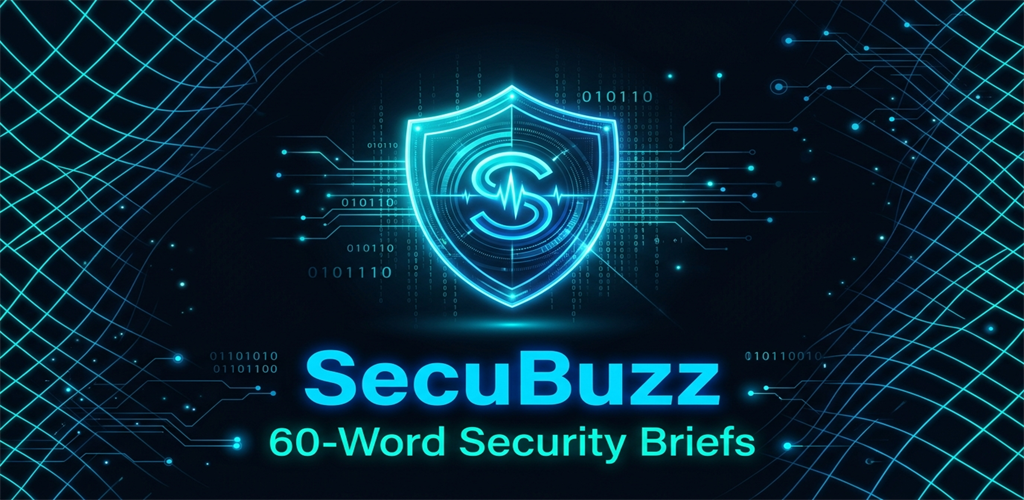
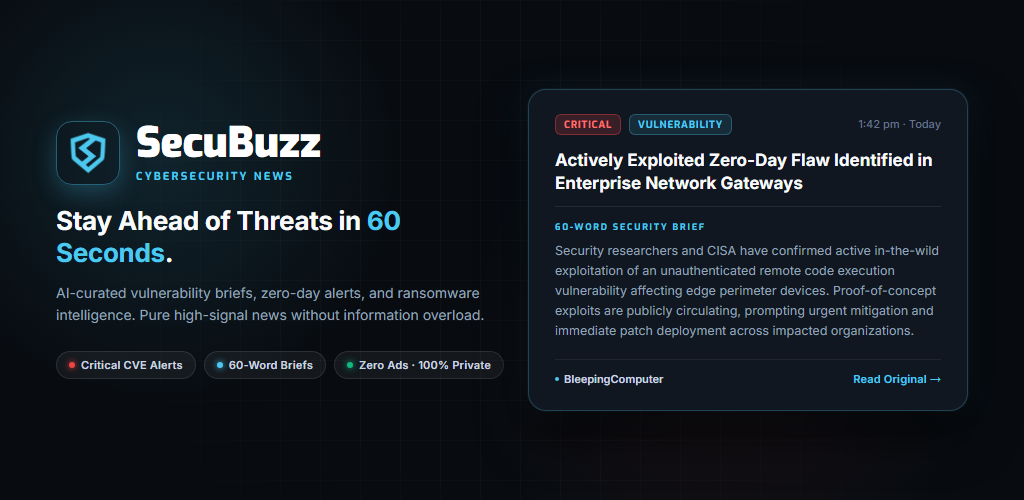
feat(store): deploy live privacy policy on Cloudflare Worker and regenerate human-crafted feature graphic

diff --git a/worker/src/privacyHtml.ts b/worker/src/privacyHtml.ts
@@ -1,0 +1,326 @@
+export const PRIVACY_POLICY_HTML = `<!DOCTYPE html>
+<html lang="en">
+<head>
+  <meta charset="UTF-8" />
+  <meta name="viewport" content="width=device-width, initial-scale=1.0" />
+  <title>SecuBuzz · Privacy Policy</title>
+  <link rel="preconnect" href="https://fonts.googleapis.com" />
+  <link rel="preconnect" href="https://fonts.gstatic.com" crossorigin />
+  <link href="https://fonts.googleapis.com/css2?family=Exo:wght@600;700;800&family=Inter:wght@400;500;600&display=swap" rel="stylesheet" />
+  <style>
+    :root {
+      --bg: #0B0F14;
+      --card-bg: #121820;
+      --border: #1E293B;
+      --cyan: #4CC9F0;
+      --cyan-glow: rgba(76, 201, 240, 0.15);
+      --text-primary: #F8FAFC;
+      --text-secondary: #94A3B8;
+      --text-muted: #64748B;
+    }
+
+    * {
+      box-sizing: border-box;
+      margin: 0;
+      padding: 0;
+    }
+
+    body {
+      background-color: var(--bg);
+      color: var(--text-primary);
+      font-family: 'Inter', -apple-system, BlinkMacSystemFont, "Segoe UI", Roboto, sans-serif;
+      line-height: 1.7;
+      padding: 40px 20px 80px;
+    }
+
+    .container {
+      max-width: 820px;
+      margin: 0 auto;
+    }
+
+    header {
+      text-align: center;
+      margin-bottom: 48px;
+      padding-bottom: 32px;
+      border-bottom: 1px solid var(--border);
+    }
+
+    .app-title {
+      font-family: 'Exo', sans-serif;
+      font-weight: 800;
+      font-size: 2.2rem;
+      letter-spacing: -0.5px;
+      color: var(--text-primary);
+    }
+
+    .tagline {
+      color: var(--cyan);
+      font-family: 'Exo', sans-serif;
+      font-weight: 600;
+      font-size: 0.85rem;
+      letter-spacing: 2px;
+      text-transform: uppercase;
+      margin-top: 4px;
+    }
+
+    .updated-date {
+      color: var(--text-muted);
+      font-size: 0.9rem;
+      margin-top: 14px;
+    }
+
+    .intro-card {
+      background: var(--card-bg);
+      border: 1px solid var(--border);
+      border-left: 4px solid var(--cyan);
+      border-radius: 12px;
+      padding: 24px;
+      margin-bottom: 36px;
+    }
+
+    .intro-card p {
+      color: var(--text-secondary);
+      font-size: 1.05rem;
+    }
+
+    .section {
+      background: var(--card-bg);
+      border: 1px solid var(--border);
+      border-radius: 12px;
+      padding: 28px;
+      margin-bottom: 24px;
+    }
+
+    .section h2 {
+      font-family: 'Exo', sans-serif;
+      font-weight: 700;
+      font-size: 1.3rem;
+      color: var(--text-primary);
+      margin-bottom: 14px;
+      display: flex;
+      align-items: center;
+      gap: 10px;
+    }
+
+    .section h2::before {
+      content: "";
+      display: inline-block;
+      width: 4px;
+      height: 18px;
+      background: var(--cyan);
+      border-radius: 2px;
+    }
+
+    .section p {
+      color: var(--text-secondary);
+      font-size: 0.98rem;
+      margin-bottom: 14px;
+    }
+
+    .section p:last-child {
+      margin-bottom: 0;
+    }
+
+    .section ul {
+      margin: 12px 0 16px 24px;
+      color: var(--text-secondary);
+    }
+
+    .section li {
+      margin-bottom: 8px;
+    }
+
+    .highlight-box {
+      background: rgba(76, 201, 240, 0.06);
+      border: 1px solid rgba(76, 201, 240, 0.2);
+      border-radius: 8px;
+      padding: 16px 20px;
+      margin: 14px 0;
+    }
+
+    .highlight-box p {
+      color: #E2E8F0;
+      font-size: 0.95rem;
+    }
+
+    a {
+      color: var(--cyan);
+      text-decoration: none;
+      transition: opacity 0.2s;
+    }
+
+    a:hover {
+      text-decoration: underline;
+      opacity: 0.85;
+    }
+
+    footer {
+      text-align: center;
+      margin-top: 60px;
+      padding-top: 32px;
+      border-top: 1px solid var(--border);
+      color: var(--text-muted);
+      font-size: 0.9rem;
+    }
+
+    footer a {
+      color: var(--text-secondary);
+      margin: 0 10px;
+    }
+
+    footer a:hover {
+      color: var(--cyan);
+    }
+  </style>
+</head>
+<body>
+  <div class="container">
+    <header>
+      <h1 class="app-title">SecuBuzz</h1>
+      <div class="tagline">60-Word Security Briefs</div>
+      <p class="updated-date">Effective Date: September 14, 2026</p>
+    </header>
+
+    <div class="intro-card">
+      <p>
+        This Privacy Policy explains how <strong>SecuBuzz</strong> handles information when you use the SecuBuzz mobile application and associated services. We believe privacy is a fundamental right, especially in cybersecurity. SecuBuzz is built to deliver transparent, high-signal intelligence without surveillance, tracking, or invasive data harvesting.
+      </p>
+    </div>
+
+    <div class="section">
+      <h2>1. Who We Are</h2>
+      <p>
+        SecuBuzz is an independent cybersecurity news and threat briefing application developed and operated by <strong>Nisarg Soni</strong>.
+      </p>
+      <p>
+        For any privacy, security, or data handling inquiries, please contact:
+        <br />
+        <strong>Email:</strong> <a href="mailto:secubuzz.app@gmail.com">secubuzz.app@gmail.com</a>
+        <br />
+        <strong>Developer Profile:</strong> <a href="https://www.linkedin.com/in/soni-nisarg/" target="_blank" rel="noopener noreferrer">Nisarg Soni on LinkedIn</a>
+      </p>
+    </div>
+
+    <div class="section">
+      <h2>2. Information We Collect</h2>
+      <p>
+        SecuBuzz is designed so that you can browse cybersecurity news without creating an account, registering personal credentials, or surrendering identity data.
+      </p>
+      <div class="highlight-box">
+        <p><strong>Zero Personal Data Harvesting:</strong> SecuBuzz does not collect your name, email address, phone number, address, contacts, precise GPS location, photos, camera/microphone streams, financial details, or biometric credentials.</p>
+      </div>
+      <p>
+        The only technical data processed is:
+      </p>
+      <ul>
+        <li><strong>Locally Saved Articles:</strong> Articles you bookmark are stored directly on your physical device using local on-device storage. They are never transmitted to our servers.</li>
+        <li><strong>Push Notification Tokens:</strong> If you grant permission to receive news alerts, a pseudonymous Expo Push Notification token is generated for your device and stored in our Cloudflare D1 database. This token is used solely to deliver notifications when new security briefs are published and can be revoked at any time via your device's notification settings.</li>
+      </ul>
+    </div>
+
+    <div class="section">
+      <h2>3. Information Stored on Your Device</h2>
+      <p>
+        SecuBuzz stores minimal application state locally on your device (such as cached feed snapshots and saved article bookmarks). This data never leaves your device and is erased if you clear the app's storage or uninstall the application.
+      </p>
+    </div>
+
+    <div class="section">
+      <h2>4. News Content & External Publisher Links</h2>
+      <p>
+        SecuBuzz retrieves cybersecurity news feeds containing concise AI-assisted summaries, categories, severity ratings, publication timestamps, and source URLs.
+      </p>
+      <p>
+        When you tap <em>"Read Original"</em>, you are directed to the external publisher's website (e.g., The Hacker News, BleepingComputer, CISA). Once you leave SecuBuzz, the privacy policy and terms of the respective external publisher govern your visit.
+      </p>
+    </div>
+
+    <div class="section">
+      <h2>5. Hosting and Infrastructure</h2>
+      <p>
+        SecuBuzz utilizes enterprise-grade infrastructure to deliver its fast, reliable feeds:
+      </p>
+      <ul>
+        <li><strong>Cloudflare R2:</strong> Used for static, globally distributed feed caching and content delivery via HTTPS.</li>
+        <li><strong>Cloudflare Workers & D1:</strong> Used to manage pseudonymous push notification tokens securely.</li>
+        <li><strong>Expo / Firebase Cloud Messaging (FCM):</strong> Used to route push notifications reliably to your Android device tray.</li>
+      </ul>
+      <p>
+        None of these infrastructure services receive your personal identity, browsing history, or saved bookmarks.
+      </p>
+    </div>
+
+    <div class="section">
+      <h2>6. AI-Assisted Brief Generation</h2>
+      <p>
+        SecuBuzz's backend pipeline uses Groq AI models to generate factually grounded 40–60 word summaries and threat severity classifications from public RSS feeds. This process runs entirely on the backend and does not process or expose user personal data.
+      </p>
+    </div>
+
+    <div class="section">
+      <h2>7. No Sale of Personal Information</h2>
+      <p>
+        SecuBuzz does not sell, rent, monetize, or trade your personal information or device tokens with third parties, data brokers, or commercial marketers.
+      </p>
+    </div>
+
+    <div class="section">
+      <h2>8. No Third-Party Advertising or Tracking SDKs</h2>
+      <p>
+        SecuBuzz does not integrate third-party ad networks (such as Google AdMob or Meta Audience Network) or invasive behavioral tracking analytics. You will never see commercial popups, banners, or tracking pixels inside the app.
+      </p>
+    </div>
+
+    <div class="section">
+      <h2>9. Security Measures</h2>
+      <p>
+        All communications between the SecuBuzz mobile application and backend services occur strictly over modern TLS/HTTPS encryption. Administrative endpoints are guarded with cryptographically secure authentication keys.
+      </p>
+    </div>
+
+    <div class="section">
+      <h2>10. Data Retention & Deletion</h2>
+      <p>
+        Because SecuBuzz does not require accounts, there is no account database to delete. You have complete control over your data:
+      </p>
+      <ul>
+        <li><strong>Bookmarks:</strong> Can be un-saved individually in the app or cleared by clearing the app data.</li>
+        <li><strong>Push Tokens:</strong> Deactivated automatically if you disable notifications in Android Settings, or upon request by emailing us with your push token.</li>
+      </ul>
+    </div>
+
+    <div class="section">
+      <h2>11. Children's Privacy</h2>
+      <p>
+        SecuBuzz is an informational cybersecurity tool intended for security practitioners, developers, and general technology audiences. It is not directed at children under the age of 13, and does not knowingly collect data from children.
+      </p>
+    </div>
+
+    <div class="section">
+      <h2>12. Policy Updates</h2>
+      <p>
+        We may update this Privacy Policy from time to time to reflect operational changes or regulatory requirements. Any updates will be posted on this page with an updated effective date.
+      </p>
+    </div>
+
+    <div class="section">
+      <h2>13. Contact Information</h2>
+      <p>
+        If you have questions, feedback, or security disclosure reports regarding this policy, please reach out directly:
+      </p>
+      <p>
+        <strong>Email:</strong> <a href="mailto:secubuzz.app@gmail.com">secubuzz.app@gmail.com</a><br />
+        <strong>Developer:</strong> Nisarg Soni (<a href="https://www.linkedin.com/in/soni-nisarg/" target="_blank" rel="noopener noreferrer">LinkedIn</a>)
+      </p>
+    </div>
+
+    <footer>
+      <p>© 2026 SecuBuzz · Developed by Nisarg Soni</p>
+      <p style="margin-top: 8px;">
+        <a href="mailto:secubuzz.app@gmail.com">Support</a> · 
+        <a href="https://www.linkedin.com/in/soni-nisarg/" target="_blank" rel="noopener noreferrer">LinkedIn</a>
+      </p>
+    </footer>
+  </div>
+</body>
+</html>`;

diff --git a/worker/src/index.ts b/worker/src/index.ts
@@ -60,6 +60,8 @@ function isAuthorized(request: Request, env: Env): boolean {
   return false;
 }
 
+import { PRIVACY_POLICY_HTML } from './privacyHtml';
+
 export default {
   async fetch(request: Request, env: Env): Promise<Response> {
     const url = new URL(request.url);
@@ -73,6 +75,18 @@ export default {
     }
 
     try {
+      // Privacy Policy Page (Public, for Google Play Store compliance)
+      if (url.pathname === '/privacy' || url.pathname === '/privacy.html') {
+        return new Response(PRIVACY_POLICY_HTML, {
+          status: 200,
+          headers: {
+            'Content-Type': 'text/html; charset=utf-8',
+            'Cache-Control': 'public, max-age=3600',
+            ...CORS_HEADERS,
+          },
+        });
+      }
+
       // 1. Health check
       if (url.pathname === '/' || url.pathname === '/health') {
         return jsonResponse({

diff --git a/STORE_LISTING.md b/STORE_LISTING.md
@@ -74,7 +74,7 @@ Stay ahead of zero-days, ransomware syndicates, and supply chain vulnerabilities
 ## 4. Contact & Legal URLs
 
 - **Website / Privacy Policy URL**:
-  `https://nisargs.github.io/SecuBuzz/` (or `https://nisargs.github.io/SecuBuzz/privacy.html`)
+  `https://secubuzz-push.secubuzz.workers.dev/privacy`
 - **Developer Support Email**:
   `secubuzz.app@gmail.com`
 - **Developer / Organization Name**:
